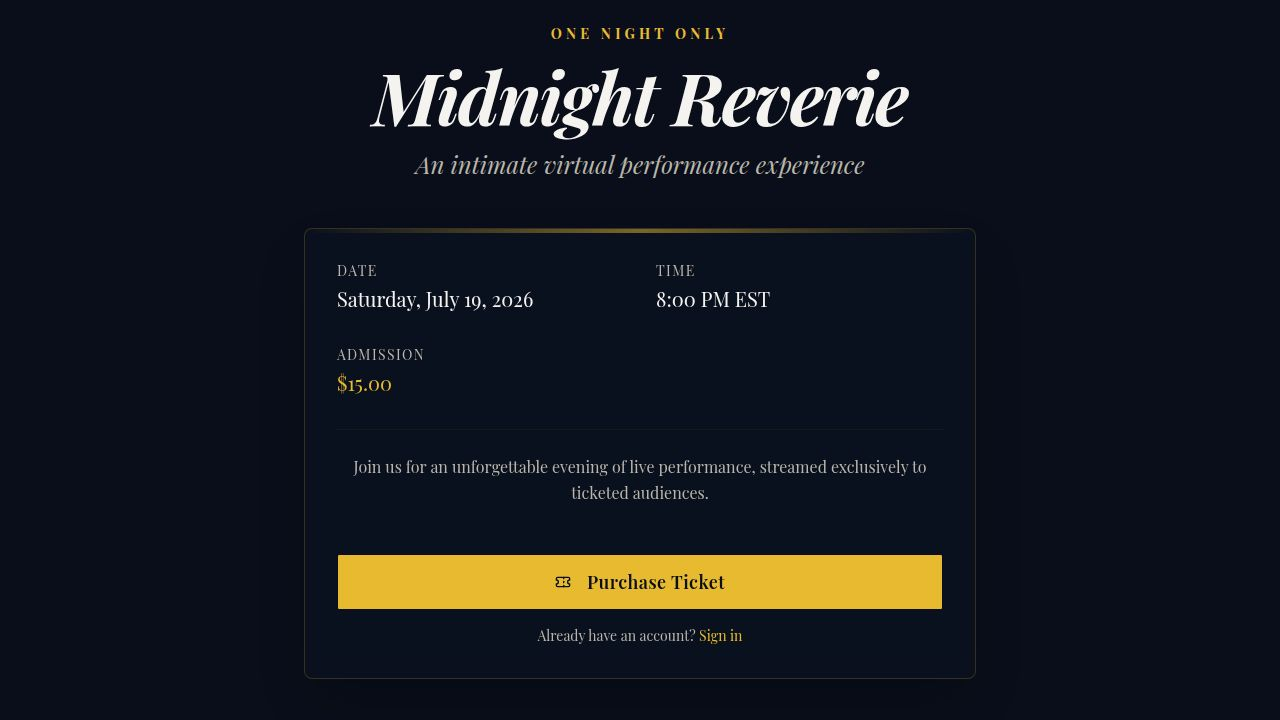
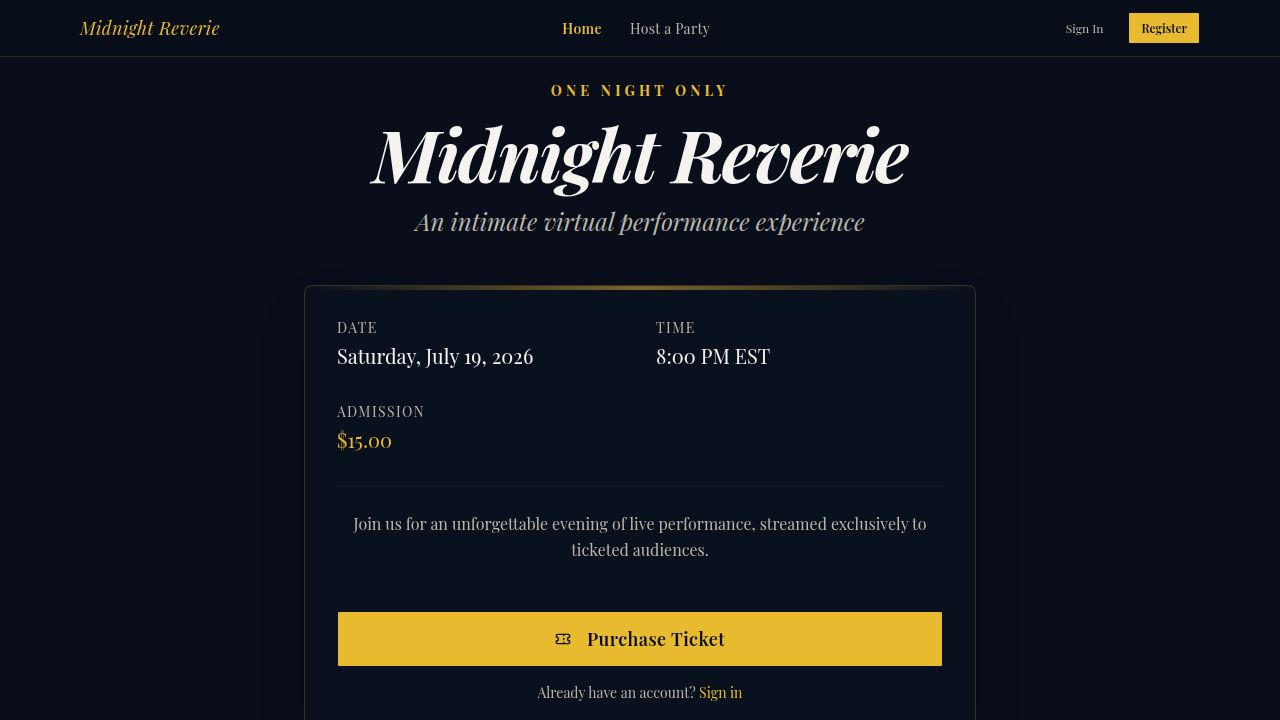
feat: add global NavBar with auth-aware links and venue back button
- Created NavBar component: sticky dark header with logo, Home/Host a Party nav links, Enter Theater (when user has ticket), Sign In/Register or Sign Out based on auth state
- Mobile-responsive: hamburger menu collapses to full drawer on small screens
- NavBar hidden on /theater (full-screen cinematic header handles its own nav)
- App.tsx refactored to AppShell pattern so NavBar can read current route via useLocation inside router context
- VenuePage: added ArrowLeft Back to Lobby button (was the only page missing one)
- Removed unused CardDescription import from VenuePage

diff --git a/artifacts/theater/src/components/NavBar.tsx b/artifacts/theater/src/components/NavBar.tsx
@@ -1,0 +1,136 @@
+import { Link, useLocation } from "wouter";
+import { useAuth } from "@/contexts/AuthContext";
+import { Button } from "@/components/ui/button";
+import { useState } from "react";
+import { Menu, X } from "lucide-react";
+
+export function NavBar() {
+  const { user, logout } = useAuth();
+  const [location] = useLocation();
+  const [mobileOpen, setMobileOpen] = useState(false);
+
+  const isActive = (path: string) => location === path;
+
+  const navLink = (href: string, label: string) => (
+    <Link href={href}>
+      <span
+        className={`text-sm tracking-wide transition-colors cursor-pointer ${
+          isActive(href)
+            ? "text-primary font-semibold"
+            : "text-muted-foreground hover:text-foreground"
+        }`}
+        onClick={() => setMobileOpen(false)}
+      >
+        {label}
+      </span>
+    </Link>
+  );
+
+  return (
+    <header className="sticky top-0 z-50 w-full border-b border-primary/15 bg-background/95 backdrop-blur supports-[backdrop-filter]:bg-background/80">
+      <div className="max-w-6xl mx-auto px-4 h-14 flex items-center justify-between gap-4">
+
+        {/* Logo */}
+        <Link href="/">
+          <span className="font-serif italic text-primary text-lg tracking-wide cursor-pointer whitespace-nowrap">
+            Midnight Reverie
+          </span>
+        </Link>
+
+        {/* Desktop nav */}
+        <nav className="hidden md:flex items-center gap-7">
+          {navLink("/", "Home")}
+          {navLink("/dashboard", "Host a Party")}
+          {user?.hasTicket && navLink("/theater", "Enter Theater")}
+        </nav>
+
+        {/* Desktop auth */}
+        <div className="hidden md:flex items-center gap-3">
+          {user ? (
+            <>
+              <span className="text-xs text-muted-foreground truncate max-w-[140px]">
+                {user.name}
+              </span>
+              <Button
+                variant="outline"
+                size="sm"
+                className="border-primary/30 text-primary hover:bg-primary/10 hover:text-primary h-8 text-xs"
+                onClick={logout}
+              >
+                Sign Out
+              </Button>
+            </>
+          ) : (
+            <>
+              <Link href="/login">
+                <Button
+                  variant="ghost"
+                  size="sm"
+                  className="text-muted-foreground hover:text-foreground h-8 text-xs"
+                >
+                  Sign In
+                </Button>
+              </Link>
+              <Link href="/signup">
+                <Button
+                  size="sm"
+                  className="bg-primary hover:bg-primary/90 text-primary-foreground h-8 text-xs font-semibold"
+                >
+                  Register
+                </Button>
+              </Link>
+            </>
+          )}
+        </div>
+
+        {/* Mobile hamburger */}
+        <button
+          className="md:hidden text-muted-foreground hover:text-foreground p-1"
+          onClick={() => setMobileOpen((v) => !v)}
+          aria-label="Toggle menu"
+        >
+          {mobileOpen ? <X className="h-5 w-5" /> : <Menu className="h-5 w-5" />}
+        </button>
+      </div>
+
+      {/* Mobile drawer */}
+      {mobileOpen && (
+        <div className="md:hidden border-t border-primary/10 bg-background px-4 py-4 flex flex-col gap-4">
+          <div className="flex flex-col gap-3">
+            {navLink("/", "Home")}
+            {navLink("/dashboard", "Host a Party")}
+            {user?.hasTicket && navLink("/theater", "Enter Theater")}
+          </div>
+          <div className="border-t border-border/40 pt-4 flex flex-col gap-2">
+            {user ? (
+              <>
+                <p className="text-xs text-muted-foreground">{user.name}</p>
+                <Button
+                  variant="outline"
+                  size="sm"
+                  className="border-primary/30 text-primary hover:bg-primary/10 w-full"
+                  onClick={() => { logout(); setMobileOpen(false); }}
+                >
+                  Sign Out
+                </Button>
+              </>
+            ) : (
+              <>
+                <Link href="/login" onClick={() => setMobileOpen(false)}>
+                  <Button variant="ghost" size="sm" className="w-full justify-start text-muted-foreground">
+                    Sign In
+                  </Button>
+                </Link>
+                <Link href="/signup" onClick={() => setMobileOpen(false)}>
+                  <Button size="sm" className="w-full bg-primary hover:bg-primary/90 text-primary-foreground font-semibold">
+                    Register
+                  </Button>
+                </Link>
+              </>
+            )}
+          </div>
+        </div>
+      )}
+    </header>
+  );
+}

diff --git a/artifacts/theater/src/App.tsx b/artifacts/theater/src/App.tsx
@@ -1,8 +1,9 @@
-import { Switch, Route, Router as WouterRouter } from "wouter";
+import { Switch, Route, Router as WouterRouter, useLocation } from "wouter";
 import { QueryClient, QueryClientProvider } from "@tanstack/react-query";
 import { Toaster } from "@/components/ui/toaster";
 import { TooltipProvider } from "@/components/ui/tooltip";
 import { AuthProvider } from "@/contexts/AuthContext";
+import { NavBar } from "@/components/NavBar";
 import NotFound from "@/pages/not-found";
 import LobbyPage from "@/pages/LobbyPage";
 import LoginPage from "@/pages/LoginPage";
@@ -15,18 +16,24 @@ import { useEffect } from "react";
 
 const queryClient = new QueryClient();
 
-function Router() {
+function AppShell() {
+  const [location] = useLocation();
+  const hideNav = location === "/theater";
+
   return (
-    <Switch>
-      <Route path="/" component={LobbyPage} />
-      <Route path="/login" component={LoginPage} />
-      <Route path="/signup" component={SignupPage} />
-      <Route path="/checkout" component={CheckoutPage} />
-      <Route path="/theater" component={TheaterPage} />
-      <Route path="/dashboard" component={HostDashboardPage} />
-      <Route path="/venue/:venueId" component={VenuePage} />
-      <Route component={NotFound} />
-    </Switch>
+    <>
+      {!hideNav && <NavBar />}
+      <Switch>
+        <Route path="/" component={LobbyPage} />
+        <Route path="/login" component={LoginPage} />
+        <Route path="/signup" component={SignupPage} />
+        <Route path="/checkout" component={CheckoutPage} />
+        <Route path="/theater" component={TheaterPage} />
+        <Route path="/dashboard" component={HostDashboardPage} />
+        <Route path="/venue/:venueId" component={VenuePage} />
+        <Route component={NotFound} />
+      </Switch>
+    </>
   );
 }
 
@@ -40,7 +47,7 @@ function App() {
       <AuthProvider>
         <TooltipProvider>
           <WouterRouter base={import.meta.env.BASE_URL.replace(/\/$/, "")}>
-            <Router />
+            <AppShell />
           </WouterRouter>
           <Toaster />
         </TooltipProvider>

diff --git a/artifacts/theater/src/pages/VenuePage.tsx b/artifacts/theater/src/pages/VenuePage.tsx
@@ -1,5 +1,5 @@
 import { useState } from "react";
-import { useParams } from "wouter";
+import { useParams, Link } from "wouter";
 import { useGetVenue, useBuyWatchPartyTicket, useVerifyGuestStream, getGetVenueQueryKey } from "@workspace/api-client-react";
 import { useForm } from "react-hook-form";
 import { zodResolver } from "@hookform/resolvers/zod";
@@ -7,8 +7,8 @@ import * as z from "zod";
 import { Button } from "@/components/ui/button";
 import { Input } from "@/components/ui/input";
 import { Form, FormControl, FormField, FormItem, FormLabel, FormMessage } from "@/components/ui/form";
-import { Card, CardContent, CardHeader, CardTitle, CardDescription } from "@/components/ui/card";
-import { Loader2, AlertCircle, Calendar, Clock, MapPin, User as UserIcon, PlayCircle } from "lucide-react";
+import { Card, CardContent, CardHeader, CardTitle } from "@/components/ui/card";
+import { Loader2, AlertCircle, ArrowLeft, Calendar, Clock, MapPin, User as UserIcon, PlayCircle } from "lucide-react";
 import { Progress } from "@/components/ui/progress";
 
 const purchaseSchema = z.object({
@@ -122,6 +122,13 @@ export default function VenuePage() {
       <div className="absolute inset-0 bg-[radial-gradient(ellipse_at_top_right,_var(--tw-gradient-stops))] from-primary/10 via-background to-background pointer-events-none" />
 
       <div className="w-full max-w-4xl z-10 space-y-12">
+        <Link href="/">
+          <Button variant="ghost" className="text-muted-foreground hover:text-primary -ml-4">
+            <ArrowLeft className="mr-2 h-4 w-4" />
+            Back to Lobby
+          </Button>
+        </Link>
+
         {/* SECTION A - Venue Header */}
         <div className="text-center space-y-4">
           <p className="text-primary tracking-[0.2em] text-sm font-bold uppercase">Watch Party</p>